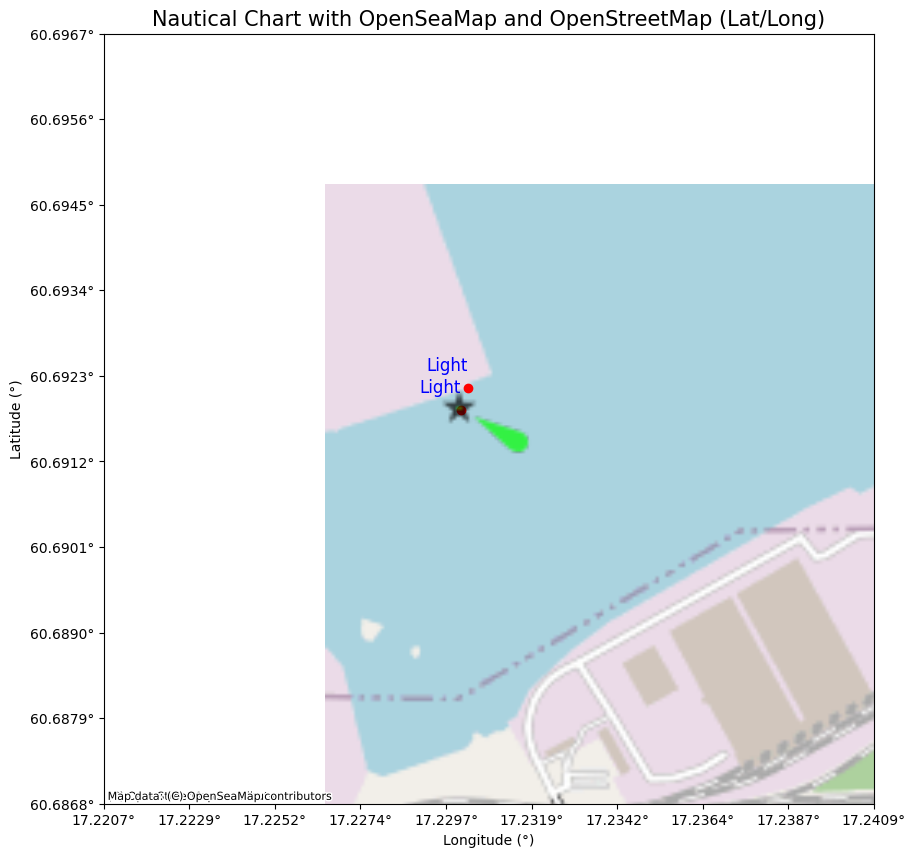
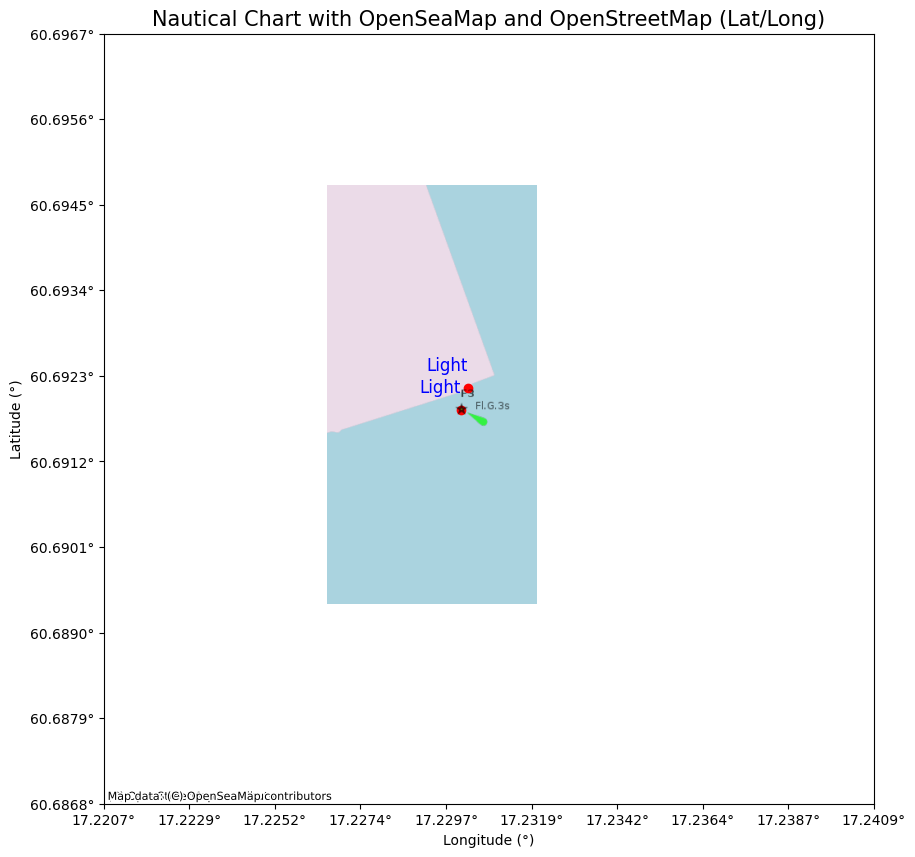
coordinates align with 1031EN.pdf Sea if Bothnia. Port of Gavie. Lights

diff --git a/tests/geotest/geo_image_from_s57-2.py b/tests/geotest/geo_image_from_s57-2.py
@@ -285,7 +285,7 @@ s57_json = {
             }
           ]
         }
-    #   },
+       },
     #   {
     #     "Title": "Northern Baltic",
     #     "Description": "Various updates on buoyage, lights, and rock features in the Northern Baltic area.",
@@ -377,7 +377,7 @@ s57_json = {
     #       "End": "2024-09-30",
     #       "Details": "Bridge will still open for cargo ships."
     #     }
-       }
+      # }
     ]
   }
 }
@@ -387,4 +387,4 @@ gdf, data = s57_to_geodataframe(s57_json)
 print(gdf)
 
 
-create_nautical_chart_image_with_latlong(gdf, data, 'nautical_chart_with_corrected_bounds.png', zoom_level=14, use_openseamap=True)
+create_nautical_chart_image_with_latlong(gdf, data, 'nautical_chart_with_corrected_bounds.png', zoom_level=16, use_openseamap=True)
